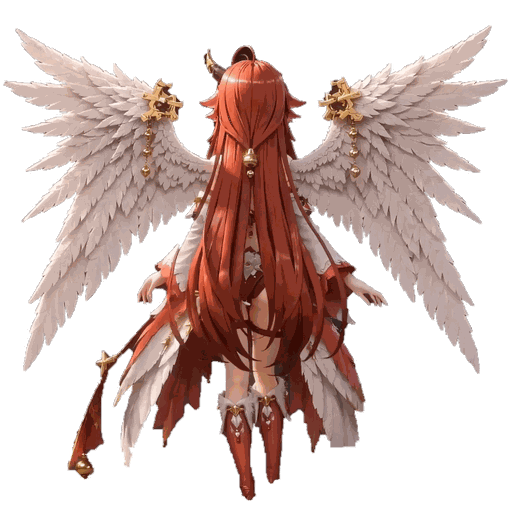
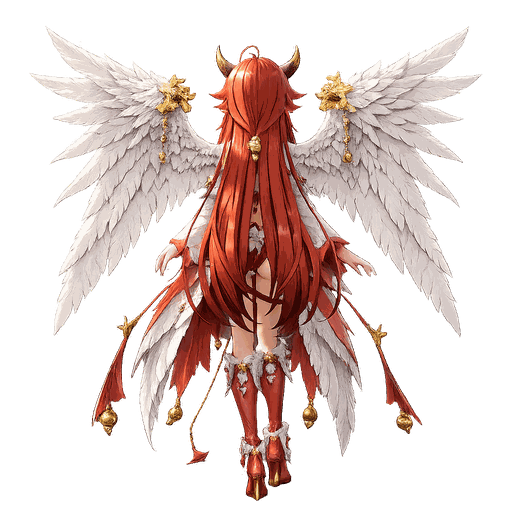
ちょこの正面/後ろ姿画像を発注者提供の透過版に差し替え (#137)
発注者から背景透過済みの画像2枚を受領したので差し替えた。
既存SSRスキン画像の規格(512px正方形・被写体が高さの93%・足元98%・
横中央)への正規化は従来どおり行っている。

- 後ろ姿: 被写体が完全に収まっており、輪郭も従来の自動切り抜きより綺麗。
- 正面: 別レンダリングかつ画角が寄っているため、ブーツの足先が元画像の
  下端で切れている。実サイズのアイコン(72-110px)では判別できないため
  そのまま採用した。気になる場合は余白を含めて書き出した正面画像を
  もらえれば同じ手順で差し替えられる。

sw.js を v298 に更新。

Claude-Session: https://claude.ai/code/session_013eCewQZRU9o6gR6Q23Jgvz

diff --git a/sw.js b/sw.js
@@ -1,7 +1,7 @@
 // ファイルを更新するたびに、このバージョン番号を必ず上げてください。
 // (例: v2 -> v3 -> v4 ...) 番号を上げないと、ユーザーの端末に古いキャッシュが
 // 残り続け、更新した内容が反映されません。
-const CACHE_NAME = 'aramon-cache-v297';
+const CACHE_NAME = 'aramon-cache-v298';
 const CORE_ASSETS = [
   './',
   './index.html',
